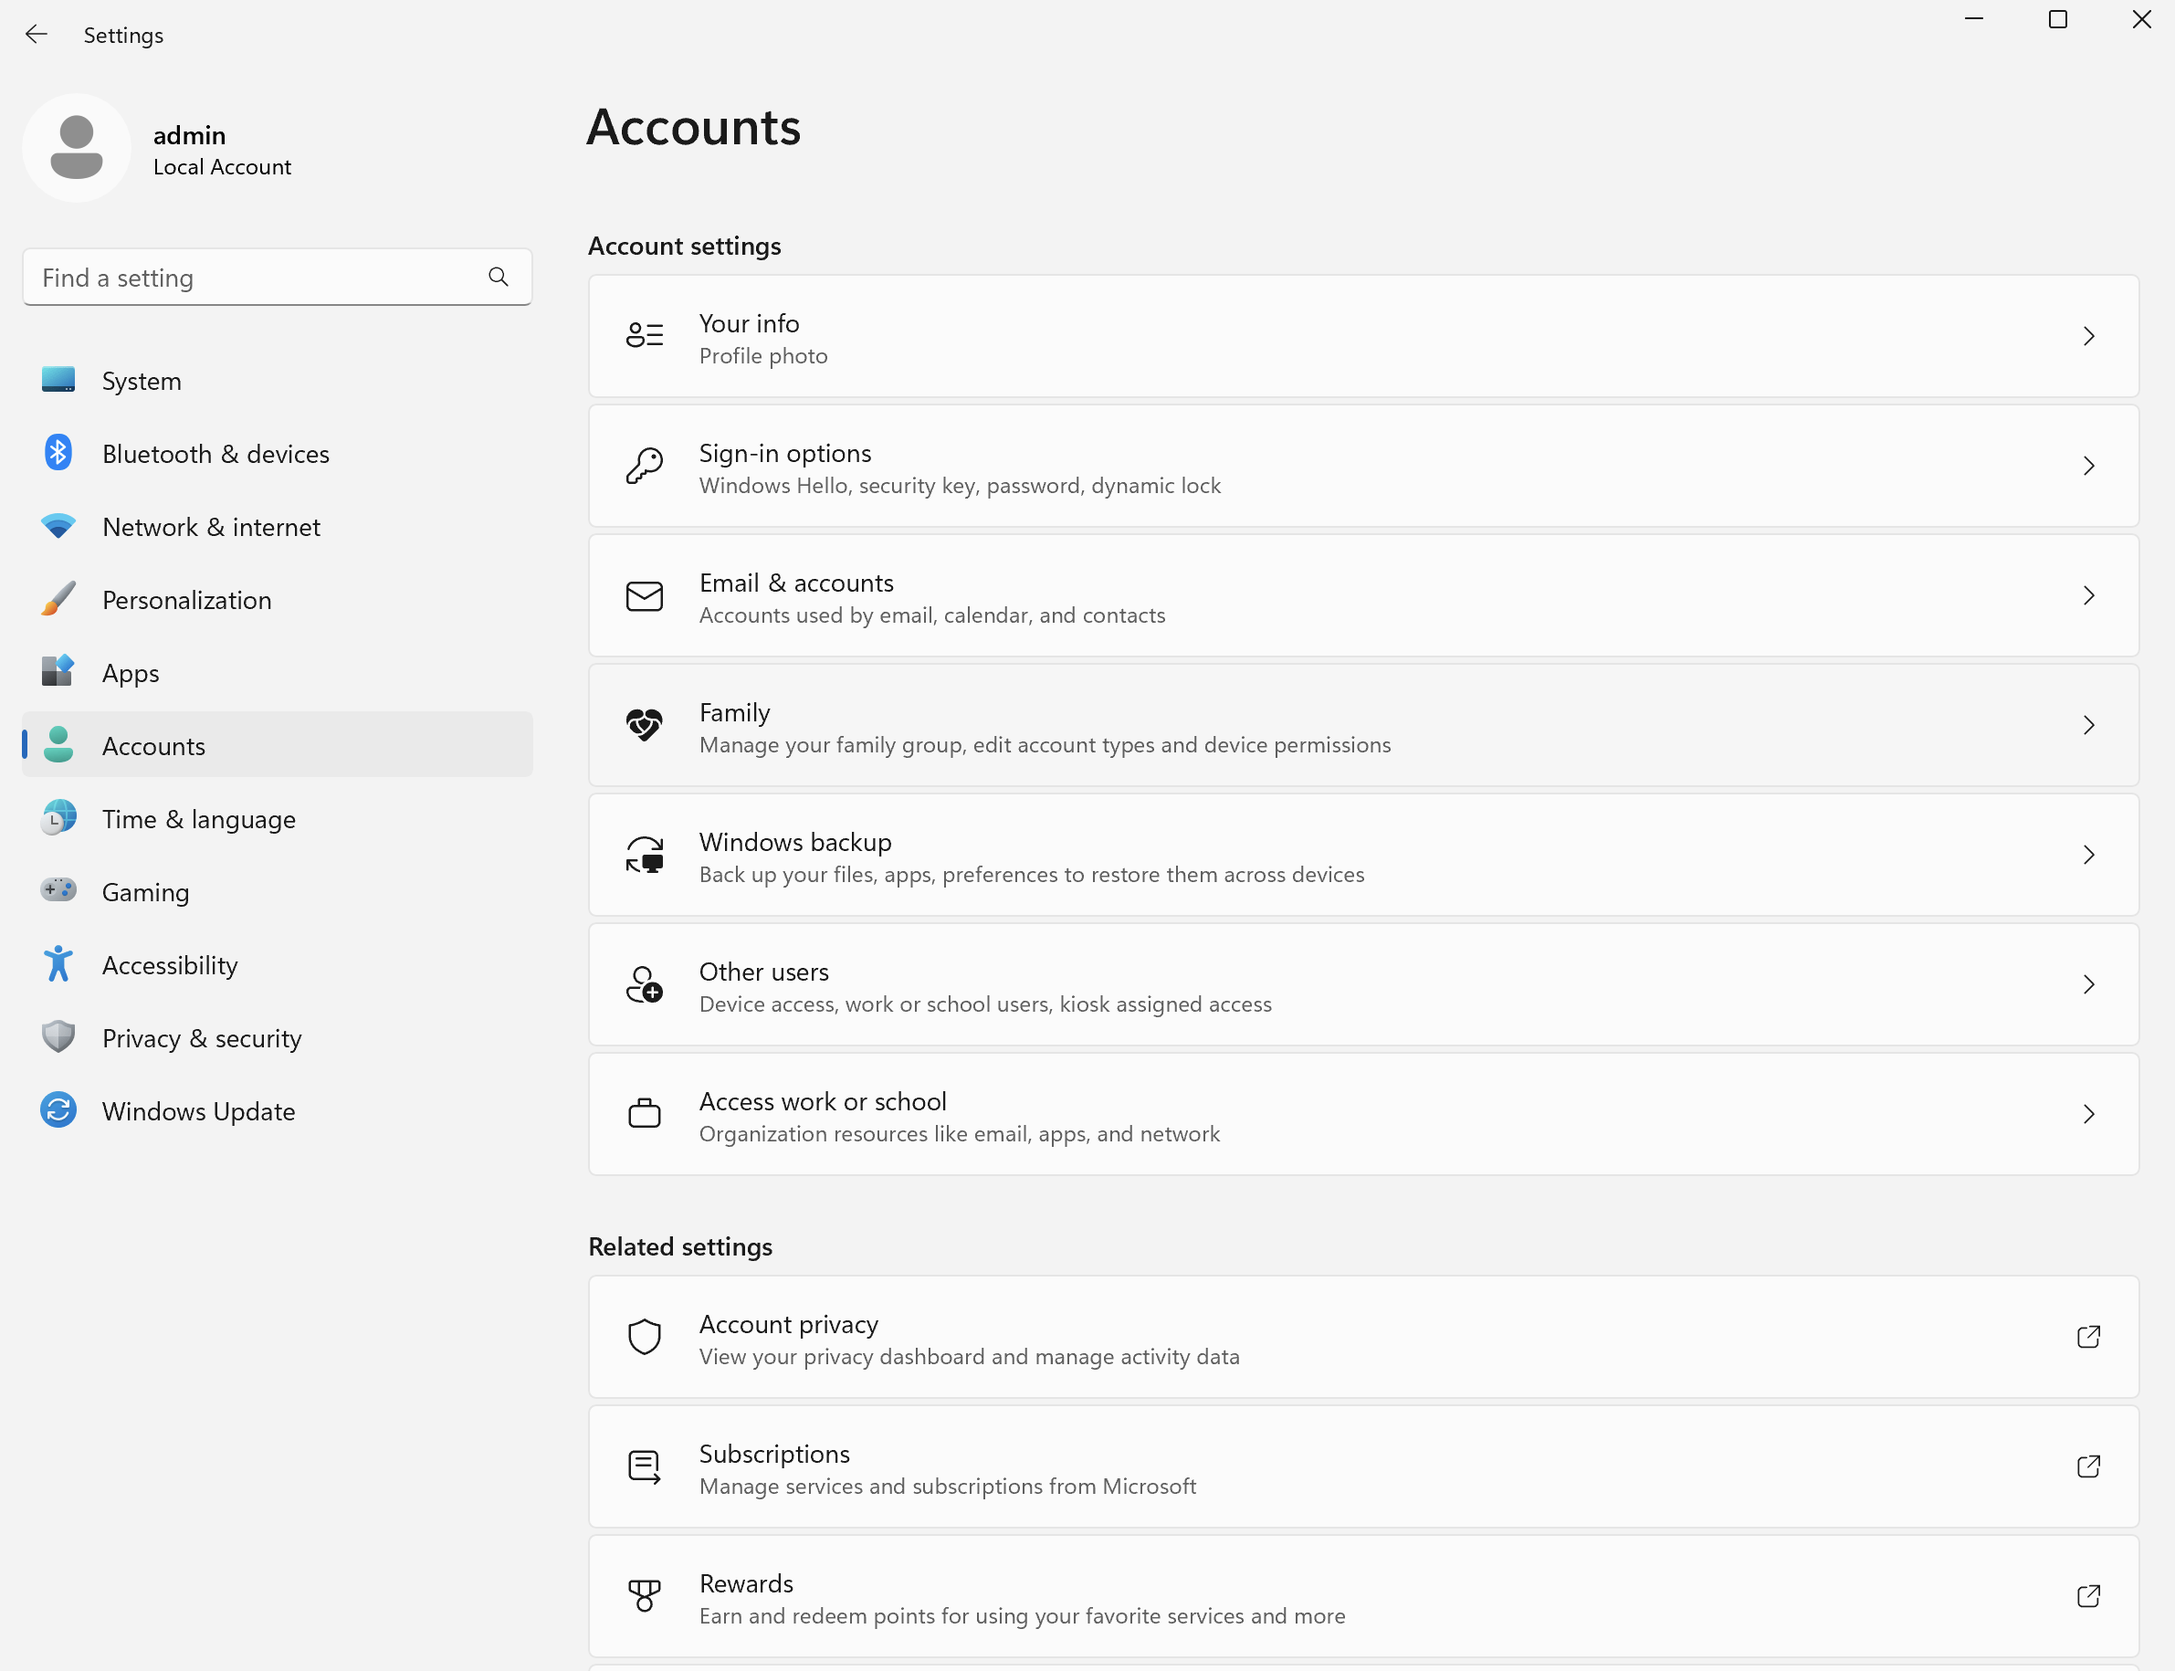
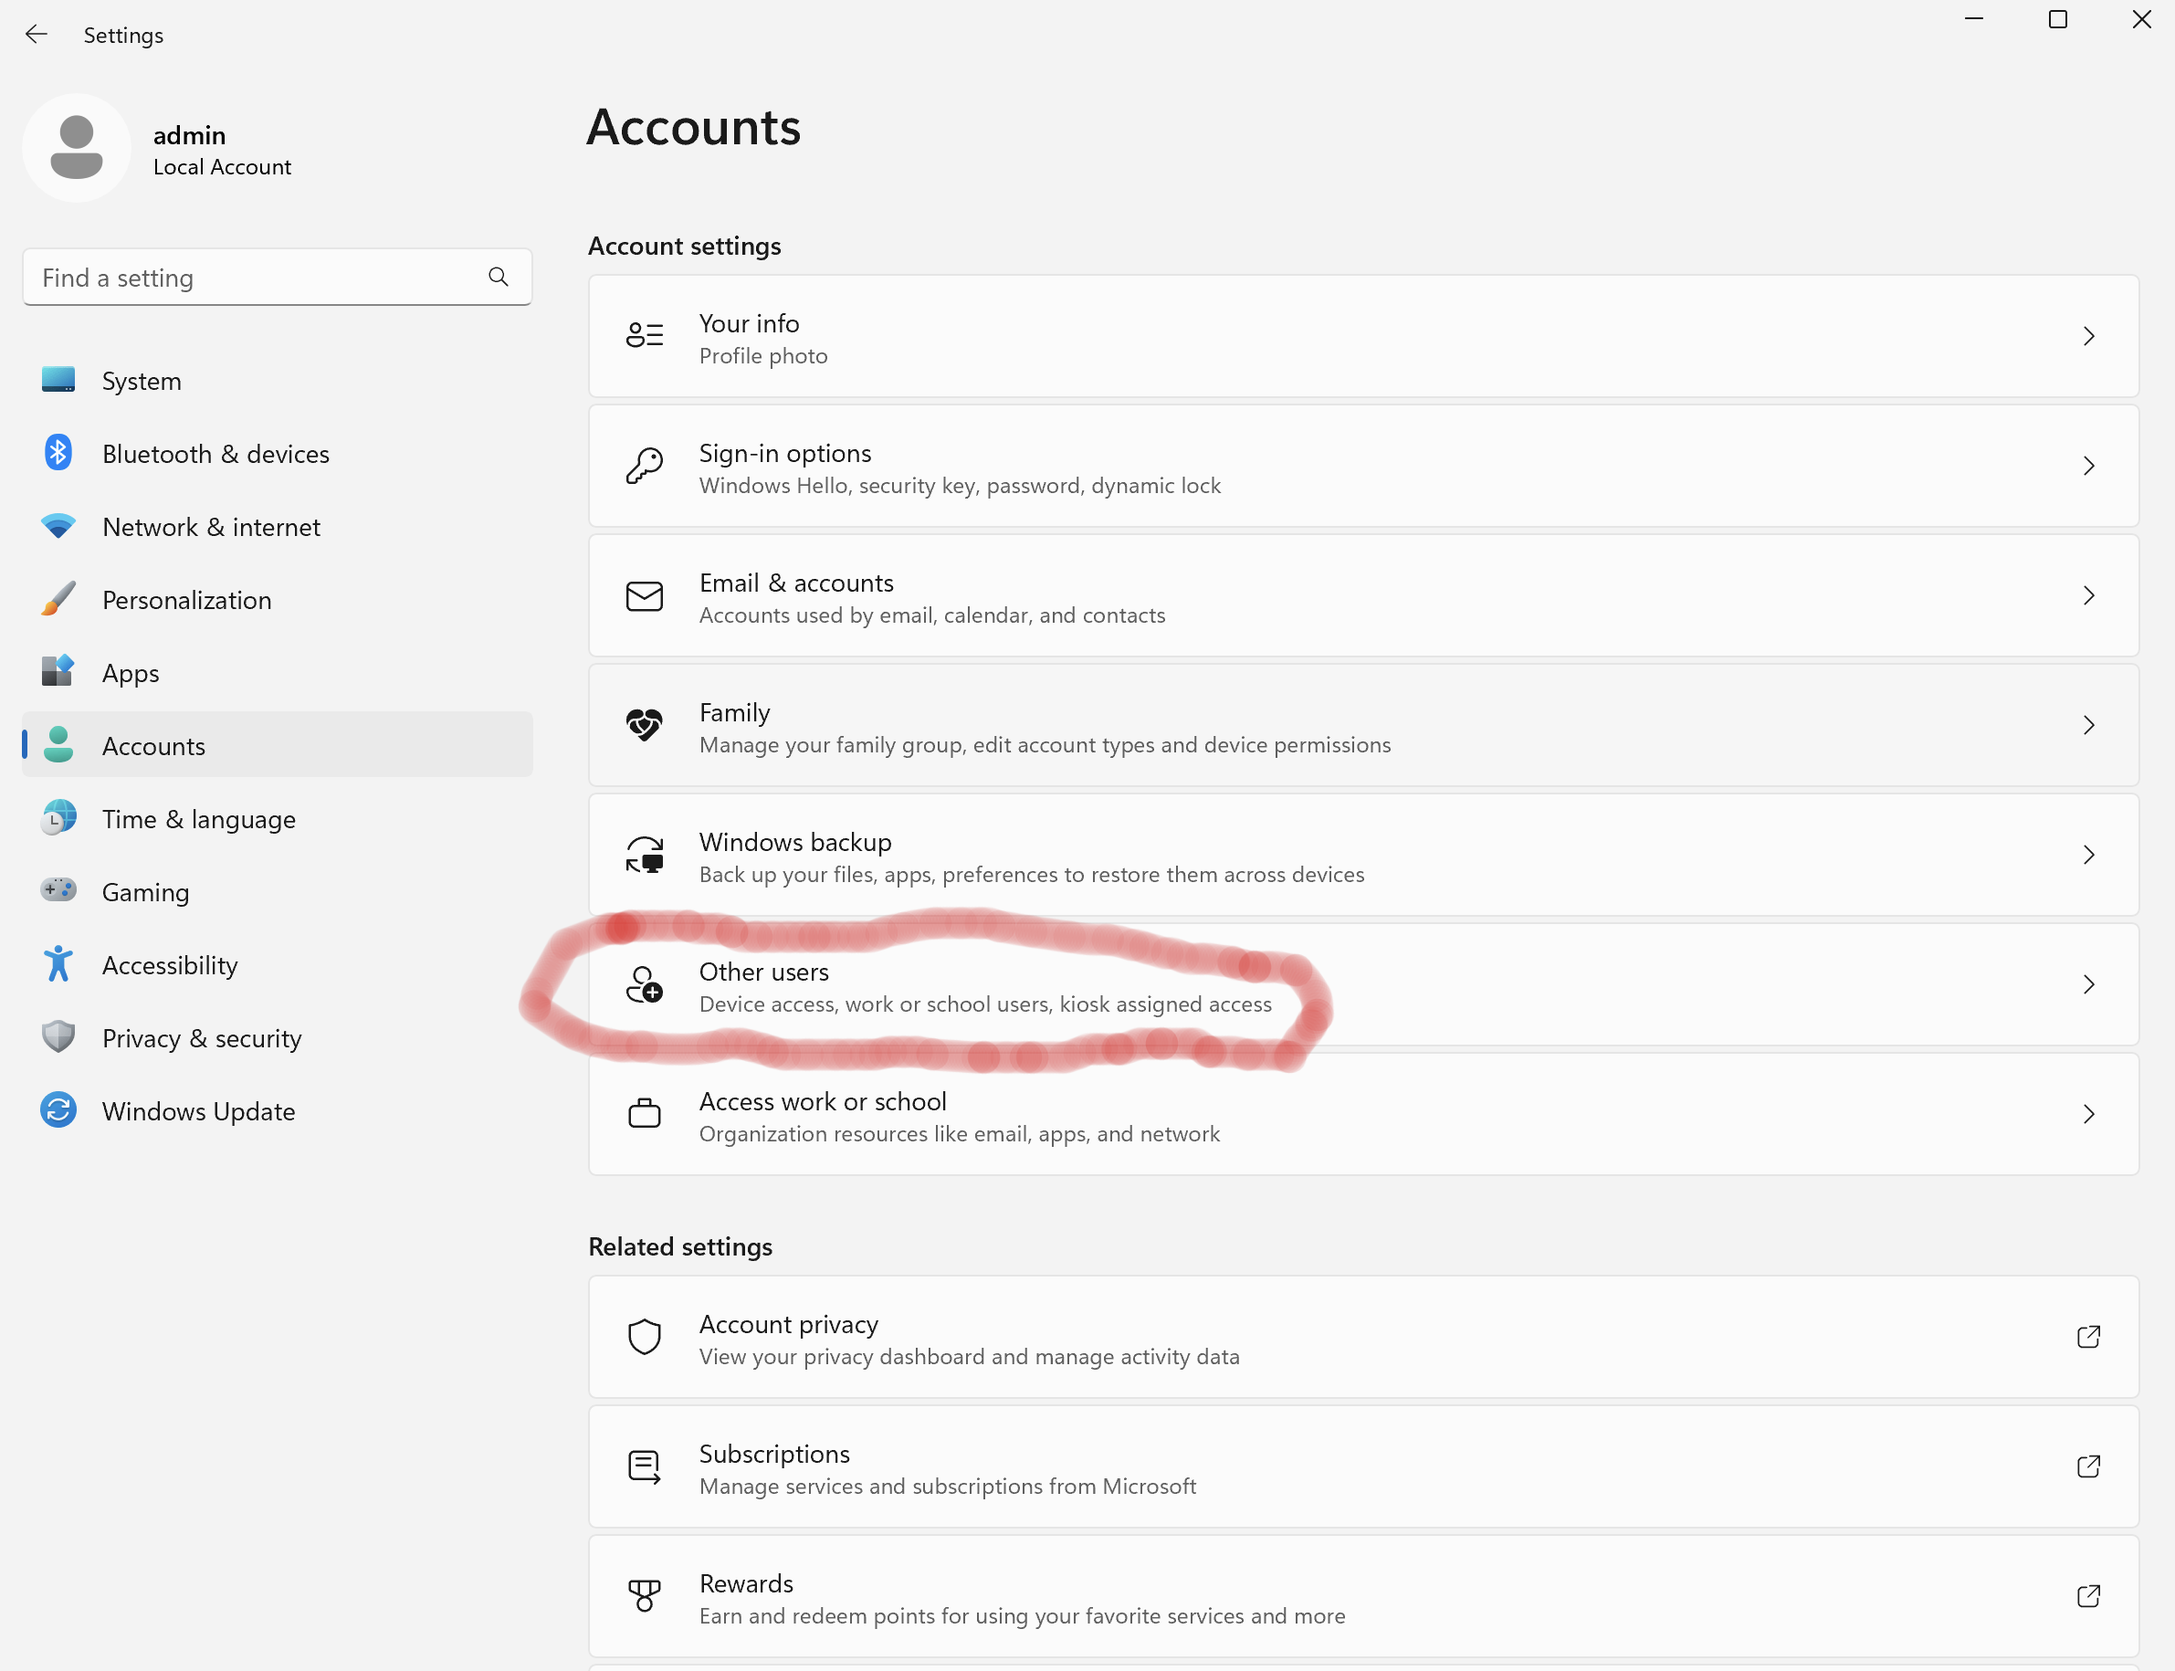
updating images for adding accounts

Changed region(s): [[0.2175, 0.5295, 0.6213, 0.6541]]

diff --git a/docs/courses/02-Os_Basics/lessons/windows-labs.md b/docs/courses/02-Os_Basics/lessons/windows-labs.md
@@ -112,6 +112,8 @@ If your printer doesn't appear, click "Add manually." A pop-up window will prese
 
 3. Now click on the add account button.
 
+![Settings](add-account.png)
+
 4. Next you will be prompted to provide a microsoft login for this user. We don't want to do that because we are creating a local account so choose the "I don't have this person's sign-in information" link.
 
 5. Next you will be prompted to provide a couple of different accoutn options. We don't want to do that because we are creating a local account so choose the "Add a user without a Microsoft account" link.
